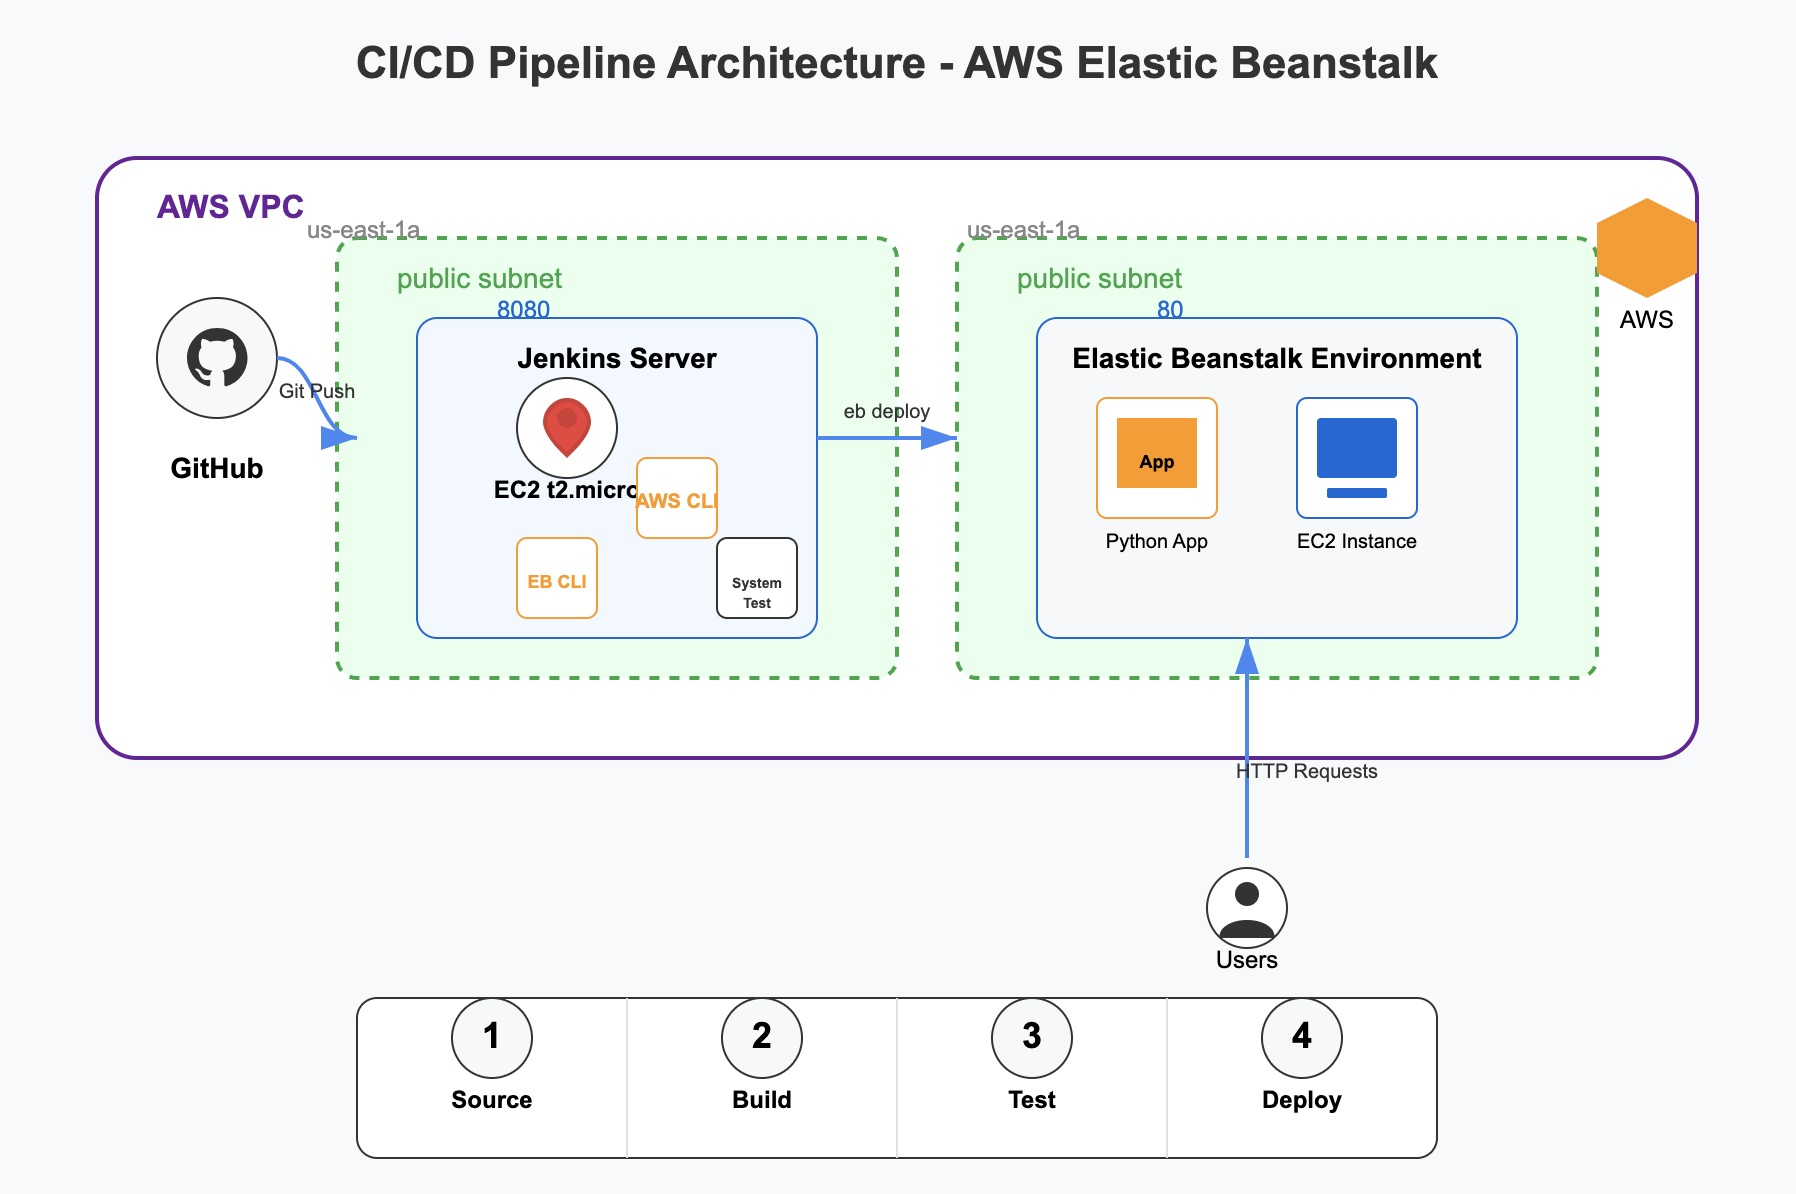
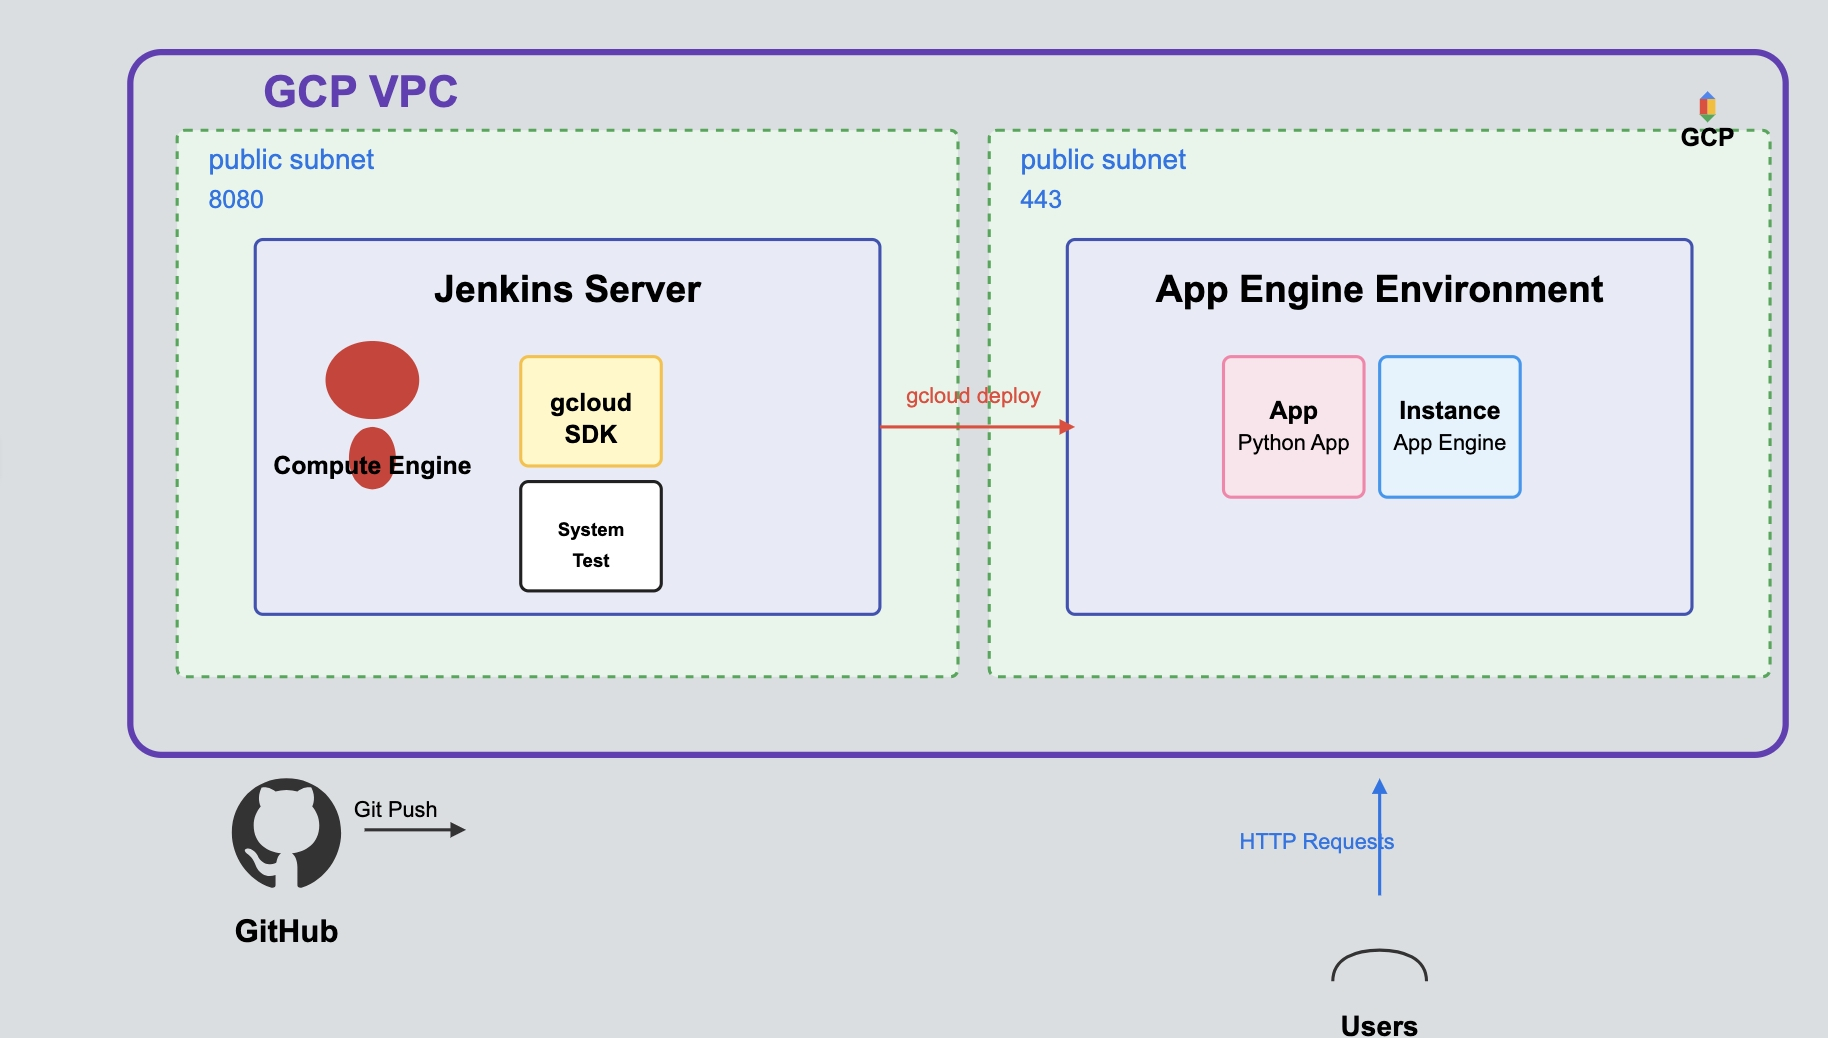
README.MD and Diagram

diff --git a/README.md b/README.md
@@ -1,21 +1,22 @@
-# Deployment Workload 2: CI/CD Pipeline with AWS CLI
+# Deployment Workload 2: CI/CD Pipeline with GCP App Engine
 
 ## PURPOSE
-The purpose of this workload is to automate the deployment process of our application using Jenkins CI/CD pipeline and AWS Elastic Beanstalk. In our previous workload, we manually uploaded the source code to AWS Elastic Beanstalk. This workload builds upon that by introducing automation through Jenkins pipelines and AWS CLI tools, reducing manual intervention and improving deployment consistency and efficiency.
+The purpose of this workload is to automate the deployment process of our application using Jenkins CI/CD pipeline and Google Cloud Platform (GCP) App Engine. This workload introduces automation through Jenkins pipelines and Google Cloud SDK tools, reducing manual intervention and improving deployment consistency and efficiency while leveraging GCP's managed services. The goal is to create a streamlined CI/CD process that enables faster and more reliable deployments to GCP App Engine.
 
 ## STEPS
 
-1. **Cloned the repository to my GitHub account**
-   - This gives me my own copy of the code to work with and enables source control for any changes I make.
+1. **Cloned the repository to GitHub account**
+   - This gives us a copy of the code to work with and enables source control for any changes made.
 
-2. **Created AWS Access Keys**
-   - Access keys are essential for programmatic access to AWS services.
-   - The keys allow Jenkins to interact with AWS services (like Elastic Beanstalk) without requiring manual login.
-   - It's critical to keep these keys secure as they provide direct access to AWS resources.
+2. **Created Google Cloud Platform (GCP) Service Account**
+   - Service accounts are essential for programmatic access to GCP services.
+   - The service account allows Jenkins to interact with GCP services (like App Engine) without requiring manual login.
+   - It's critical to keep these credentials secure as they provide direct access to GCP resources.
 
-3. **Created a t2.micro EC2 instance for Jenkins Server**
+3. **Created a GCP Compute Engine VM instance for Jenkins Server**
+   - Using Terraform to provision an e2-medium VM instance in GCP.
    - This provides the dedicated compute resources needed to run our Jenkins automation server.
-   - Used t2.micro as it's suitable for development purposes while remaining cost-effective.
+   - Created within a custom VPC for better network isolation and security.
 
 4. **Created system_resources_test.sh script**
    - This script monitors system resources (CPU, memory, disk) and returns appropriate exit codes.
@@ -25,14 +26,16 @@ The purpose of this workload is to automate the deployment process of our applic
 5. **Created a MultiBranch Pipeline and connected GitHub repository**
    - MultiBranch Pipelines automatically detect branches in our repository and run builds for each.
    - This enables feature branch development and continuous integration across all branches.
+   - Pipeline configuration is automated through Terraform and startup scripts.
 
-6. **Installed AWS CLI on the Jenkins Server**
-   - The AWS CLI provides command-line access to AWS services from our Jenkins server.
-   - This enables automation of AWS operations that previously required manual console interaction.
+6. **Installed Google Cloud SDK on the Jenkins Server**
+   - The Google Cloud SDK provides command-line access to GCP services from our Jenkins server.
+   - This enables automation of GCP operations that previously required manual console interaction.
 
 7. **Configured Jenkins user with necessary permissions**
-   - Created password for the Jenkins user and switched to it.
-   - This allows Jenkins to run commands with the appropriate permissions on the server.
+   - Set up Jenkins with access to the GCP service account.
+   - This allows Jenkins to run commands with the appropriate permissions on GCP.
+   - Linked application default credentials to the Jenkins user.
 
 8. **Navigated to the pipeline workspace**
    - This directory contains our application's source code as retrieved from our GitHub repository.
@@ -40,71 +43,71 @@ The purpose of this workload is to automate the deployment process of our applic
 
 9. **Activated Python Virtual Environment**
    - Virtual environments isolate dependencies, preventing conflicts between different Python projects.
-   - This environment was created during the build stage of our pipeline (via `python3 -m venv venv`).
+   - This environment is created during the build stage of our pipeline (via `python3 -m venv venv`).
    - Isolation ensures consistent builds across different environments and developers.
 
-10. **Installed AWS EB CLI**
-    - EB CLI provides specialized commands for managing Elastic Beanstalk applications.
-    - This tool simplifies deployment compared to using the general AWS CLI.
+10. **Configured App Engine deployment**
+    - Created app.yaml file that defines runtime environment, scaling, and resource allocation.
+    - This configuration file replaces the Elastic Beanstalk configuration used previously.
+    - Specified Python runtime, entrypoint, and health check settings.
 
-11. **Configured AWS CLI with credentials**
-    - This step links our AWS access keys to the CLI, enabling authenticated API requests.
-    - Setting the region ensures we deploy to the correct AWS geographical area.
-
-12. **Initialized AWS Elastic Beanstalk CLI**
-    - The `eb init` command sets up our Elastic Beanstalk application configuration.
-    - It configures essential parameters like region, application name, platform, and SSH access.
-
-13. **Added a deploy stage to the Jenkinsfile**
+11. **Added a deploy stage to the Jenkinsfile**
     - This automates the deployment process as part of our CI/CD pipeline.
     - The deploy stage runs after the test stage, ensuring we only deploy code that has passed tests.
-    - It creates a single-instance Elastic Beanstalk environment for our application.
+    - It deploys the application to GCP App Engine using the gcloud command.
 
-14. **Pushed changes to the GitHub repository**
+12. **Pushed changes to the GitHub repository**
     - This triggers our pipeline to run with the newly added deployment stage.
     - Source control tracks changes, providing versioning and rollback capabilities.
 
-15. **Verified deployment in AWS Console**
-    - Confirmed that the application was successfully deployed to Elastic Beanstalk.
-    - Accessed the application at the Elastic Beanstalk-provided domain to ensure it's working.
+13. **Verified deployment in GCP Console**
+    - Confirmed that the application was successfully deployed to App Engine.
+    - Accessed the application at the App Engine-provided domain to ensure it's working.
 
 ## SYSTEM DESIGN DIAGRAM
-![Daigram](Diagram.jpg)
+![Diagram](Diagram.jpg)
 
 ## ISSUES/TROUBLESHOOTING
 
 1. **Jenkins Pipeline Syntax Errors**
    - The Jenkinsfile syntax is very specific and sensitive to formatting errors.
-   - I had to carefully follow the documentation to ensure proper stage definitions and bracket placement.
-   - Solution: Referenced the official Jenkins pipeline syntax documentation and validated the file.
+   - Be sure to carefully follow the documentation to ensure proper stage definitions and bracket placement.
+   - Solution: Reference the official Jenkins pipeline syntax documentation and validate the file.
 
-2. **AWS CLI Credential Configuration**
-   - Ensuring the Jenkins user had the proper AWS credentials configured was challenging.
-   - Solution: Carefully followed the AWS CLI configuration steps and verified with a simple command.
+2. **GCP Service Account Configuration**
+   - Ensuring the Jenkins user had the proper GCP credentials configured was challenging.
+   - Solution: Carefully follow the GCP authentication steps and verify with a simple command.
+   - Make sure to grant the appropriate IAM roles to the service account.
 
 3. **Python Virtual Environment Activation**
-   - Initially had issues with the virtual environment not being found or activated correctly.
-   - Solution: Made sure to use the correct path to the virtual environment and activation command.
+   - Issues with the virtual environment not being found or activated correctly can occur.
+   - Solution: Make sure to use the correct path to the virtual environment and activation command.
+   - Ensure proper environment setup in the Jenkinsfile.
 
-4. **Elastic Beanstalk Platform Version**
-   - Faced an error where Elastic Beanstalk couldn't find the specified Python version.
-   - Solution: Verified available platform versions and updated the configuration to use a supported version.
+4. **App Engine Deployment Failures**
+   - Faced errors during initial App Engine deployment attempts.
+   - Solution: Verified app.yaml configuration and ensured all required parameters were correctly specified.
+   - Implemented proper health checks to validate deployment success.
 
 ## OPTIMIZATION
 
-### How does a deploy stage in the CI/CD pipeline increase business efficiency?
+### How does a CI/CD pipeline to GCP increase business efficiency?
 
-Adding a deploy stage to the CI/CD pipeline dramatically increases business efficiency by:
+Migrating to GCP App Engine with a CI/CD pipeline dramatically increases business efficiency by:
 
 1. **Reducing Manual Effort**: Deployments that previously required manual steps now happen automatically, freeing up developer time for more valuable tasks.
 
-2. **Increasing Deployment Frequency**: The ease of automated deployments encourages more frequent, smaller updates, which reduces risk and gets features to users faster.
+2. **Leveraging Managed Services**: GCP App Engine handles infrastructure management, allowing teams to focus on application development rather than server maintenance.
 
-3. **Improving Consistency**: Every deployment follows the exact same process, eliminating human-induced variables and errors that can occur with manual deployments.
+3. **Horizontal Scaling**: App Engine can automatically scale based on demand, eliminating the need to predict and provision resources in advance.
 
-4. **Enabling Rapid Rollbacks**: If issues are detected, the pipeline can be configured to quickly roll back to a previous working version, minimizing downtime.
+4. **Increasing Deployment Frequency**: The ease of automated deployments encourages more frequent, smaller updates, which reduces risk and gets features to users faster.
 
-5. **Providing Deployment Traceability**: The pipeline records who initiated each deployment, what changes were included, and when it occurred, improving accountability and troubleshooting.
+5. **Improving Consistency**: Every deployment follows the exact same process, eliminating human-induced variables and errors that can occur with manual deployments.
+
+6. **Enabling Rapid Rollbacks**: If issues are detected, the pipeline can be configured to quickly roll back to a previous working version, minimizing downtime.
+
+7. **Providing Deployment Traceability**: The pipeline records who initiated each deployment, what changes were included, and when it occurred, improving accountability and troubleshooting.
 
 ### Potential issues with automating deployments to production:
 
@@ -116,7 +119,7 @@ Adding a deploy stage to the CI/CD pipeline dramatically increases business effi
 
 4. **Credential Management**: CI/CD pipelines require access to production credentials, which increases security risk if not properly managed.
 
-5. **Dependency on External Services**: If the pipeline relies on external services like GitHub or AWS, outages in those services can prevent deployments.
+5. **Dependency on External Services**: If the pipeline relies on external services like GitHub or GCP, outages in those services can prevent deployments.
 
 ### How to address these issues:
 
@@ -124,28 +127,28 @@ Adding a deploy stage to the CI/CD pipeline dramatically increases business effi
 
 2. **Add Security Scanning**: Incorporate vulnerability scanning tools like OWASP dependency checks or SonarQube.
 
-3. **Use Infrastructure as Code**: Define all environments using the same IaC tools to ensure consistency between development and production.
+3. **Use Infrastructure as Code**: Define all environments using Terraform to ensure consistency between development and production.
 
-4. **Implement Credential Rotation**: Regularly rotate API keys and implement the principle of least privilege for service accounts.
+4. **Implement Secret Management**: Use GCP Secret Manager to securely store and manage credentials.
 
 5. **Create Approval Gates**: Add manual approval requirements for production deployments to maintain human oversight.
 
 6. **Implement Feature Flags**: Use feature flags to gradually roll out changes to production users, limiting impact if issues occur.
 
-7. **Set Up Monitoring and Alerting**: Implement robust monitoring to detect issues quickly after deployment, enabling fast response.
+7. **Set Up Monitoring and Alerting**: Implement robust monitoring with Cloud Monitoring to detect issues quickly after deployment, enabling fast response.
 
 8. **Create Disaster Recovery Plans**: Document procedures for rolling back deployments and recovering from failures.
 
 ## CONCLUSION
 
-This workload has successfully automated the deployment of our application to AWS Elastic Beanstalk through a CI/CD pipeline. By leveraging Jenkins, AWS CLI, and Elastic Beanstalk CLI, we've created a streamlined process that reduces manual effort, increases consistency, and improves overall deployment efficiency.
+This workload has successfully implemented a CI/CD pipeline for GCP App Engine. By leveraging Jenkins, Terraform, and Google Cloud SDK, we've created a streamlined process that reduces manual effort, increases consistency, and improves overall deployment efficiency.
 
 The CI/CD pipeline we've implemented follows industry best practices by:
 1. Retrieving code from a version-controlled repository
 2. Building the application in an isolated environment
 3. Running tests to verify functionality and resource utilization
-4. Automatically deploying to Elastic Beanstalk when tests pass
+4. Automatically deploying to App Engine when tests pass
 
-This automation represents a significant improvement over the manual deployment process used in Workload 1. It not only saves time but also reduces the potential for human error during the deployment process. The pipeline can be further enhanced by adding additional stages such as security scanning, performance testing, and staged deployments to different environments.
+This automation represents a significant improvement over manual deployment processes. It not only saves time but also reduces the potential for human error during the deployment process. The pipeline can be further enhanced by adding additional stages such as security scanning, performance testing, and staged deployments to different environments.
 
-By continuing to refine and expand our CI/CD pipeline, we can further improve our development velocity while maintaining application quality and reliability.
+By continuing to refine and expand our GCP-based CI/CD pipeline, we can further improve our development velocity while maintaining application quality and reliability. The fully automated Jenkins setup script ensures consistent environment configuration, while Terraform provides reproducible infrastructure deployment.
